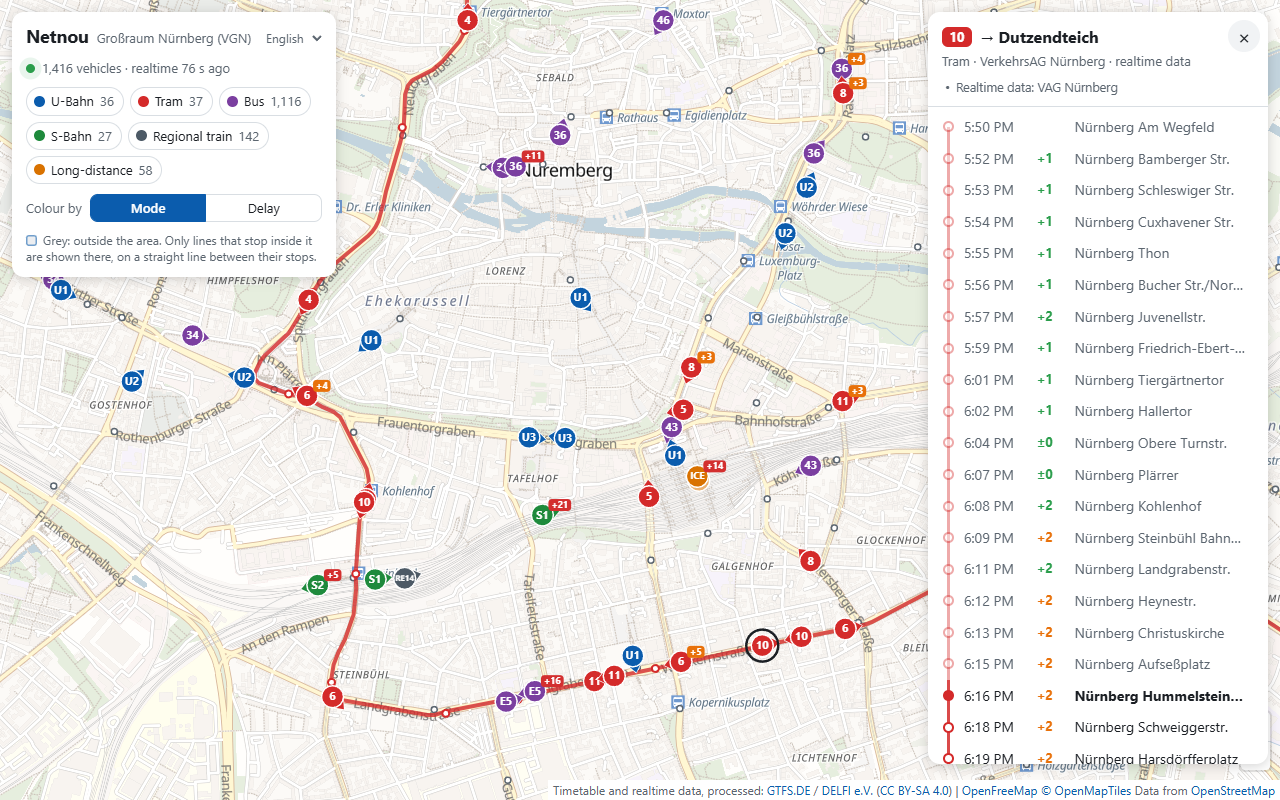
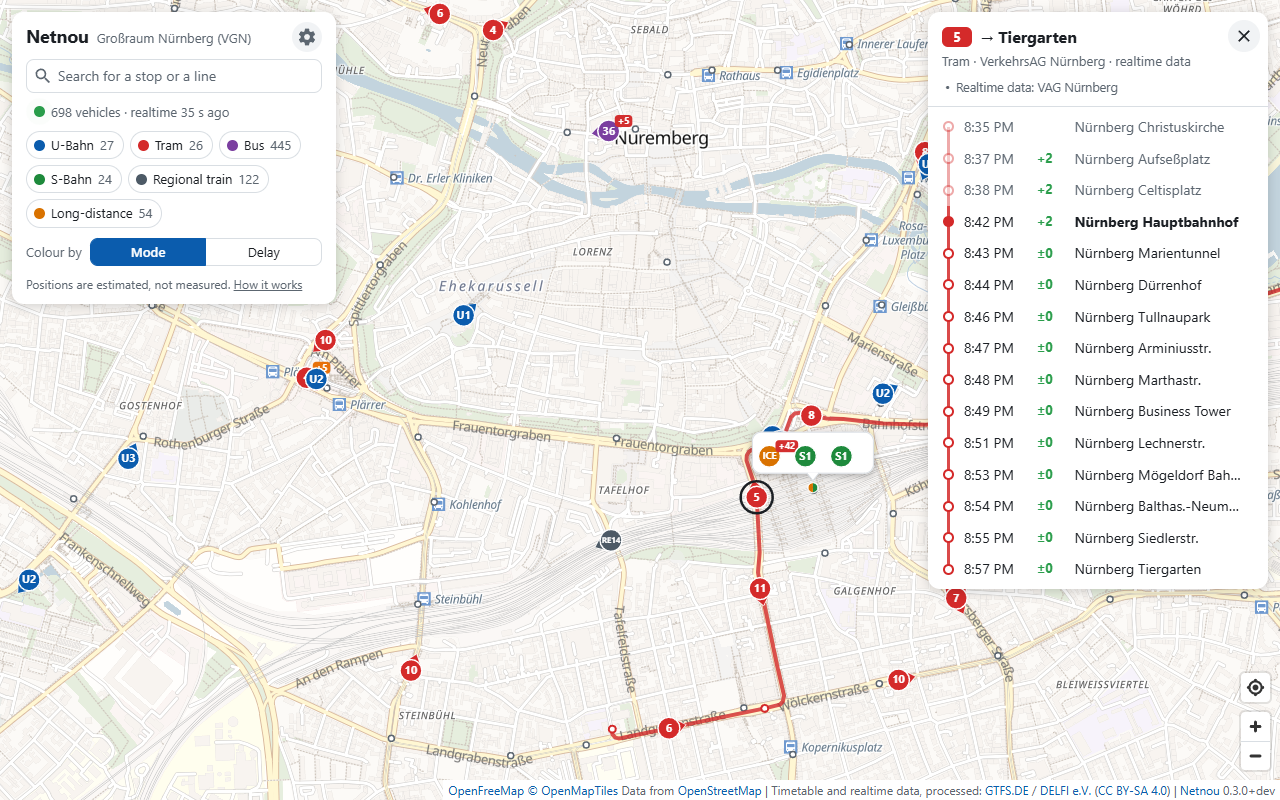
docs(readme): renew the screenshot and the image for link previews (#60)
The screenshot was of 5 October and showed a page that has changed since:
no search, the language selector in the title row, the hint on the grey
area in the card.

The new one is of the same part of Nürnberg with a tram chosen, taken on
7 October at 20:42 with the realtime data of that moment. It shows the
search field, the settings, the line on how the positions come about, a
bubble with the trains standing at the Hauptbahnhof and delay flags.

docs/social-preview.png is rebuilt from it with npm run build:social.

diff --git a/README.md b/README.md
@@ -9,7 +9,7 @@ delays and OpenStreetMap.
 **Try it:** [netnou.xiidoz.com](https://netnou.xiidoz.com) runs Netnou for the
 default area. It is a demonstration, without a promise that it is always up.
 
-![Map of central Nürnberg with buses, trams and trains as coloured markers; a panel lists the stops of tram 10 with its delays](docs/screenshot.png)
+![Map of central Nürnberg with buses, trams and trains as coloured markers; a panel lists the stops of tram 5 with its delays](docs/screenshot.png)
 
 Netnou shows buses, trams, underground, suburban, regional and long-distance
 trains moving on a map, with their current delays, the stop list of every trip
